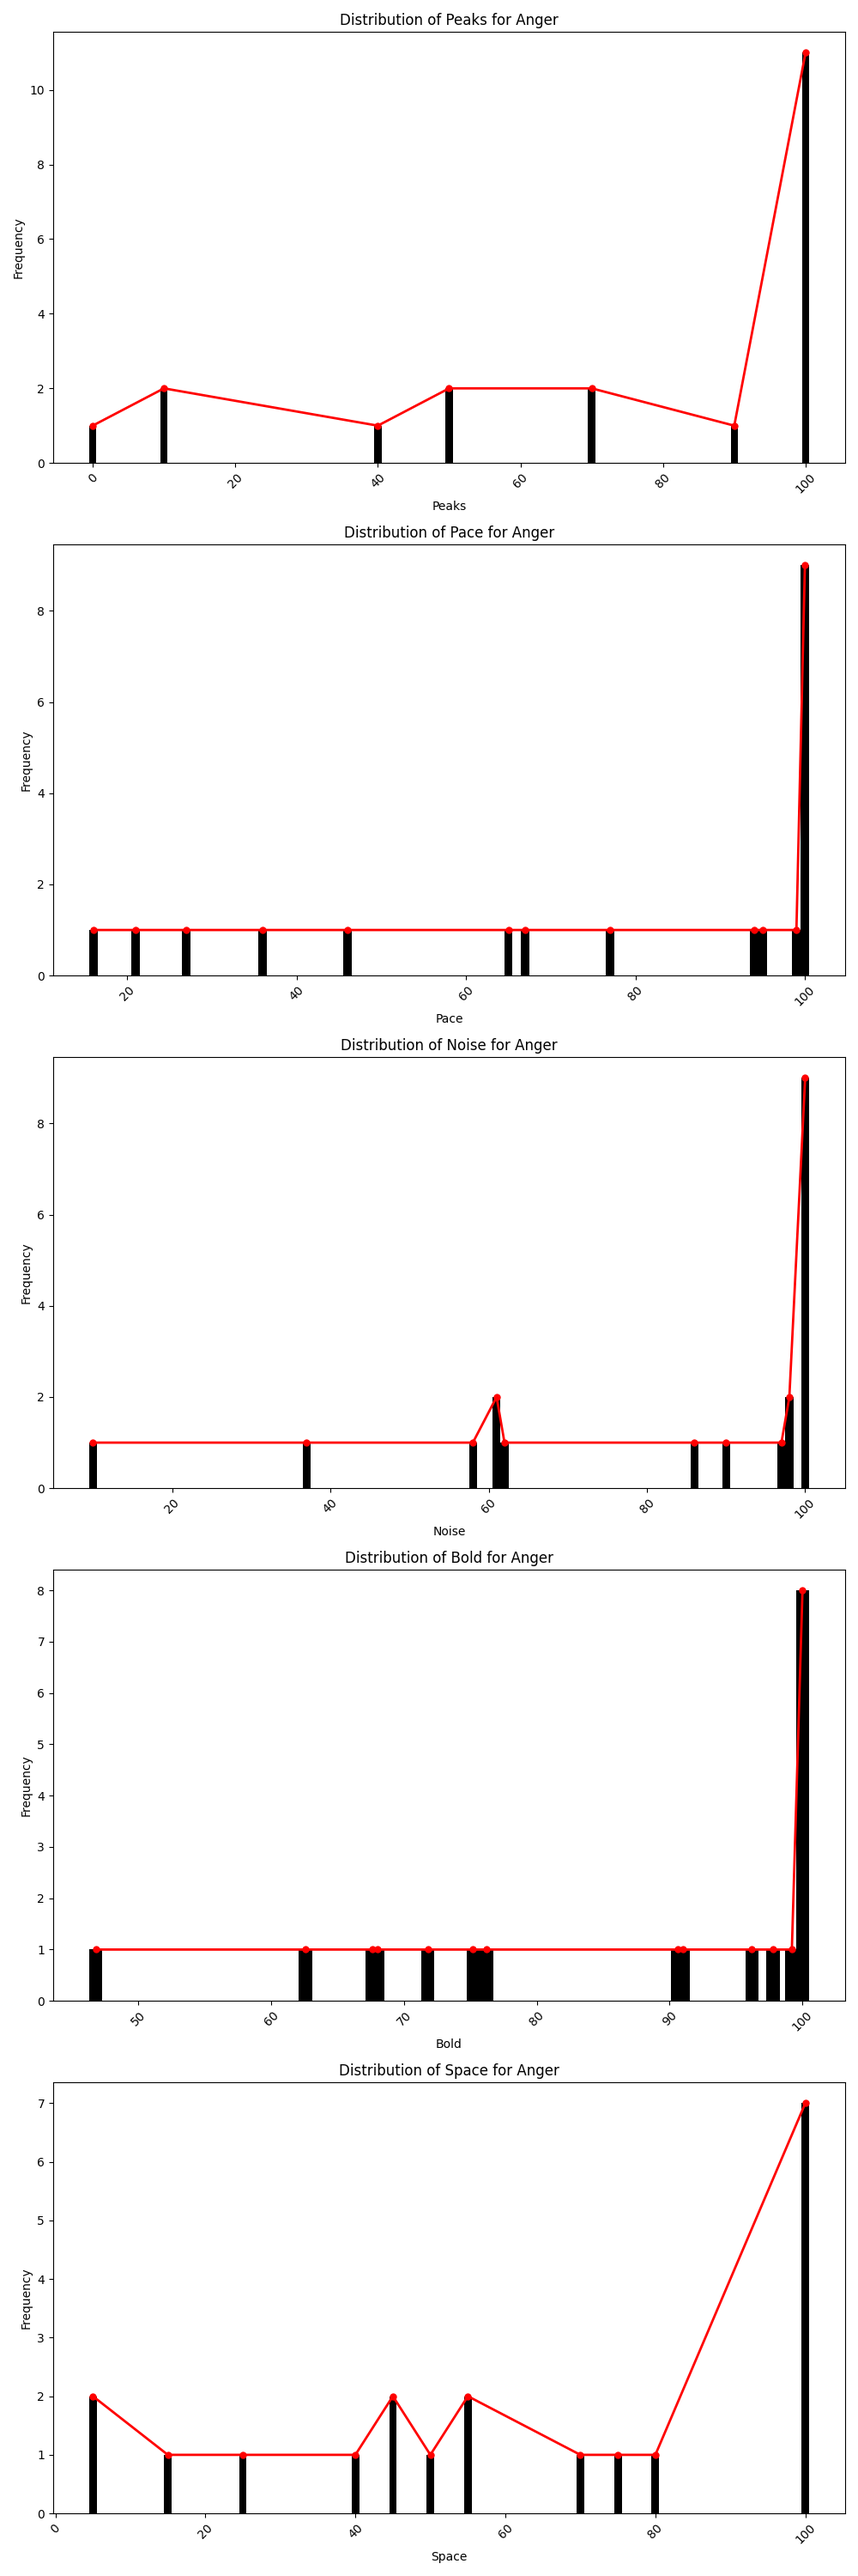
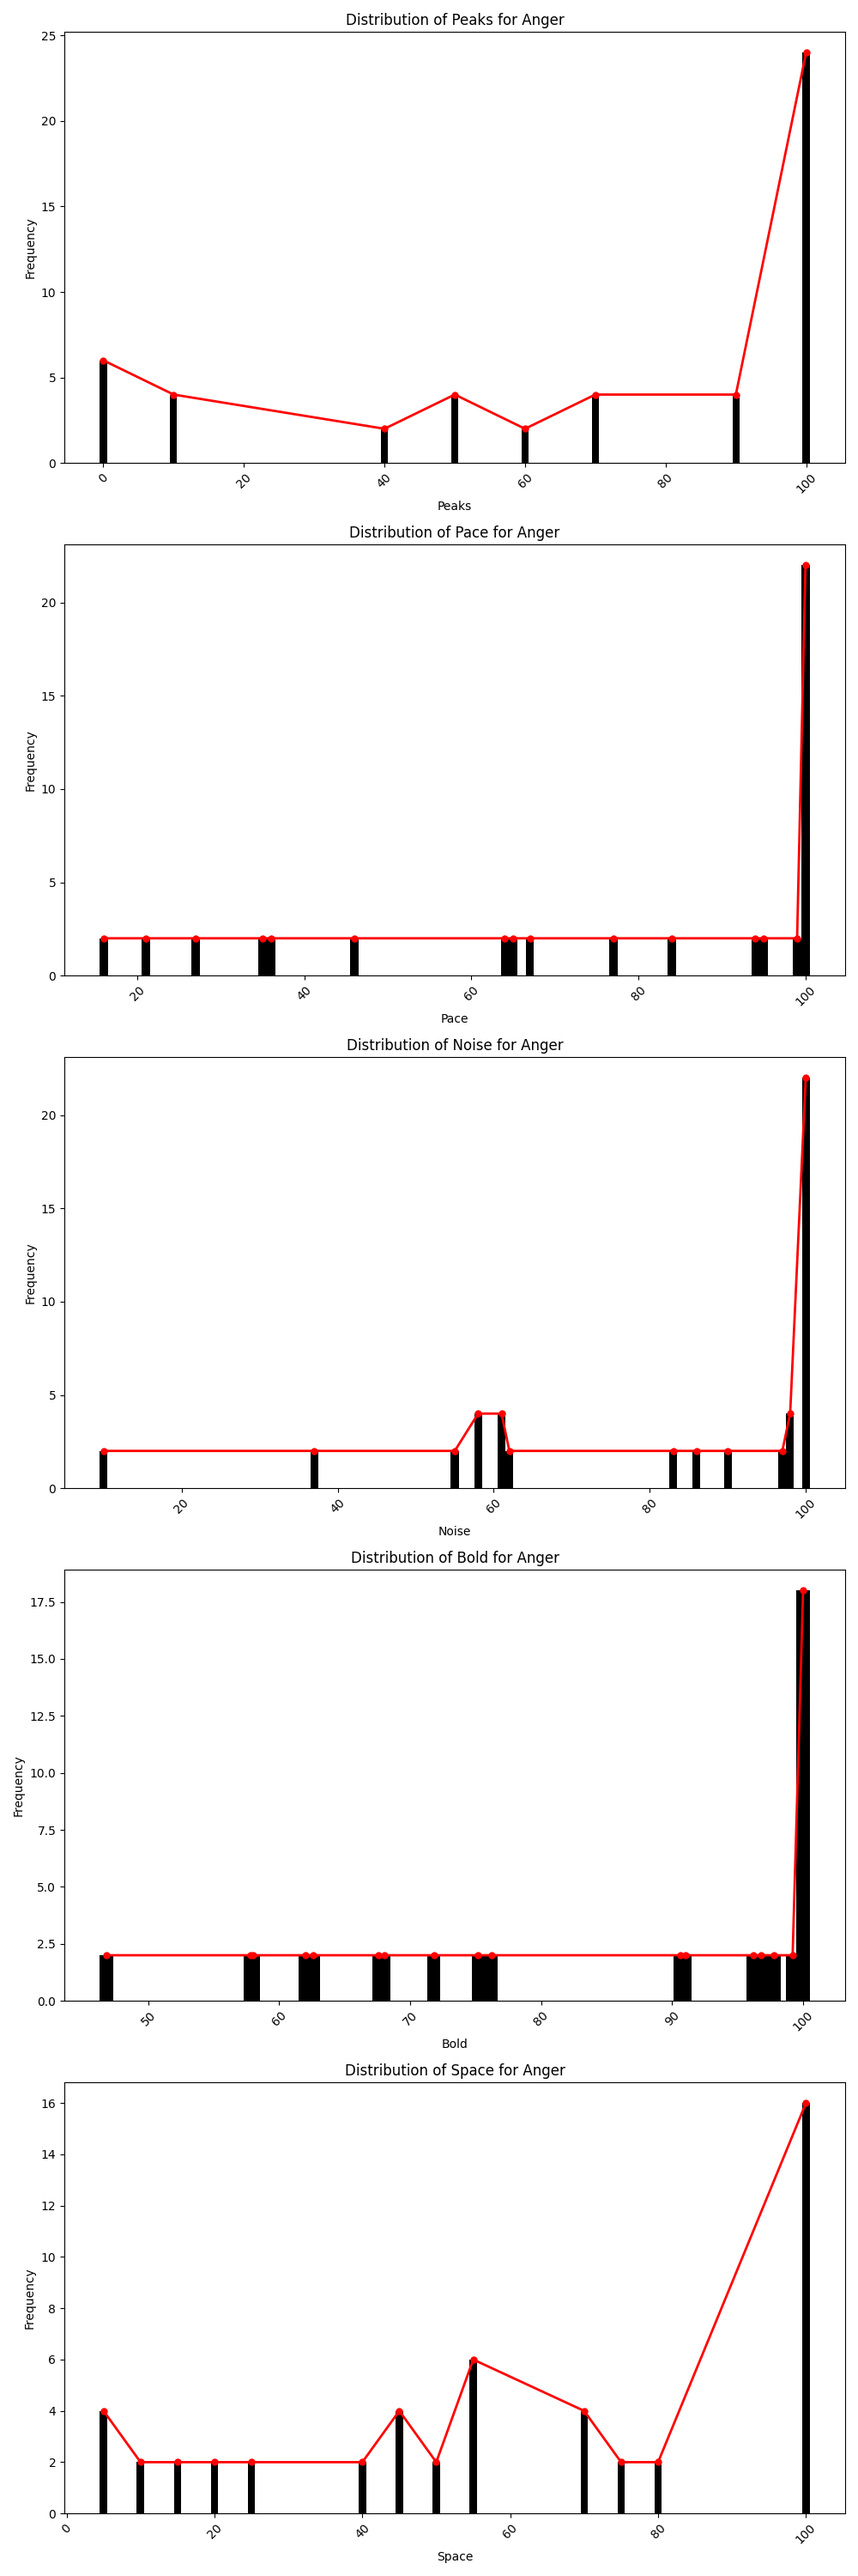
added more graphs to analyze

diff --git a/analyzer/box.py b/analyzer/box.py
@@ -1,0 +1,87 @@
+import matplotlib.pyplot as plt
+import os
+
+box_plot_data = [
+    # emotion = {'pk': [min, q1, med, q3, max, mean, mode],...}
+    {
+        'pk': [0,3,7,10,10,6.32,10], 
+        'pc': [0.01,0.028,0.042,0.089,0.1,0.05356,0.1], 
+        'n': [0.1,0.14,0.3,0.41,1,0.3804,0.1], 
+        'b': [1.93,2.98,3.89,4.89,5,3.804,5], 
+        's': [3,13,16,18,20,14.88,20]
+    },
+    {
+        'pk': [0,0,3,5,10,3.56,0], 
+        'pc': [0.01,0.01,0.015,0.025,0.1,0.02444,0.01], 
+        'n': [0.1,0.1,0.19,0.48,1,0.3388,0.1], 
+        'b': [1,1,1.58,2.67,5,2.0844,1], 
+        's': [1,5,10,15,20,10.52,20]
+    },
+    {
+        'pk': [0,5,9,10,10,6.96,10], 
+        'pc': [0.016,0.064,0.095,0.1,0.1,0.07704,0.1], 
+        'n': [0.1,0.61,0.98,1,1,0.8216,1], 
+        'b': [2.34,3.4,4.81,5,5,4.2352,5], 
+        's': [1,8,11,20,20,12.16,20]
+    },
+    {
+        'pk': [0,3,5,10,10,5.84,10], 
+        'pc': [0.01,0.03,0.067,0.1,0.1,0.062,0.1], 
+        'n': [0.1,0.54,0.68,0.97,1,0.6668,1], 
+        'b': [1,1.51,2.34,3.33,5,2.5464,1], 
+        's': [1,3,8,12,20,7.88,3]
+    },
+    {
+        'pk': [0,2,3,6,10,4.16,10], 
+        'pc': [0.01,0.018,0.028,0.05,0.1,0.03776,0.01], 
+        'n': [0.1,0.52,0.65,0.96,1,0.6764,1], 
+        'b': [1,2.23,3.44,4.55,5,3.3824,5], 
+        's': [3,6,11,14,20,10.36,14]
+    },
+]
+
+# Assert all lists have exactly 6 elements
+for emotion_data in box_plot_data:
+    for feature_values in emotion_data.values():
+        try:
+            assert len(feature_values) == 7, "Each feature list must contain exactly 6 values."
+        except AssertionError as e:
+            print(feature_values)
+# Feature keys
+features = ['pk', 'pc', 'n', 'b', 's']
+
+emotions_list = ['joy', 'sad', 'anger', 'fear', 'disgust']
+features_dict = {'pk' : 'Peaks', 'pc': 'Pace', 'n': 'Noise', 'b': 'Bold', 's': 'Space'}
+
+# Create boxplots for each feature
+for feature in features:
+    plt.figure(figsize=(8, 5))
+
+    # Extract data for the current feature across all emotions
+    feature_data = [emotion_data[feature][:5] for emotion_data in box_plot_data]  # Exclude the mean
+    mean_values = [emotion_data[feature][5] for emotion_data in box_plot_data]  # Extract the mean
+    mode_values = [emotion_data[feature][6] for emotion_data in box_plot_data]  # Extract the mode
+
+
+    # Create boxplot
+    plt.boxplot(feature_data, vert=True, patch_artist=True)
+
+    # Overlay mean markers
+    for i, mean in enumerate(mean_values):
+        plt.plot(i + 1, mean, 'ro')  # Use a red circle for the mean
+
+    # Overlay mean markers
+    for j, mode in enumerate(mode_values):
+        plt.plot(j + 1, mode, 'rx')  # Use a red cross for the mode
+
+    # Set plot labels and title
+    plt.xticks(range(1, len(feature_data) + 1), [f'{emotions_list[i]}' for i in range(len(feature_data))])
+    plt.title(f"Boxplot for {features_dict[feature]}")
+    plt.xlabel("Emotions")
+    plt.ylabel(f"Values of {features_dict[feature]}")
+    
+    # Show legend
+    plt.legend()
+
+    # Show plot
+    plt.savefig(os.path.join('analyzer//graphs',f'{feature}_boxplot.png'))

diff --git a/analyzer/util.py b/analyzer/util.py
@@ -49,7 +49,7 @@ dsgst = {
 L = [joy, sad, anger, fear, dsgst]
 
 def read_data():
-    with open('./analyzer/mdb.csv') as mdb_data:
+    with open('./analyzer/mdb_2.csv') as mdb_data:
         raw = mdb_data.readlines()
         raw.pop(0)
         for line in raw:
